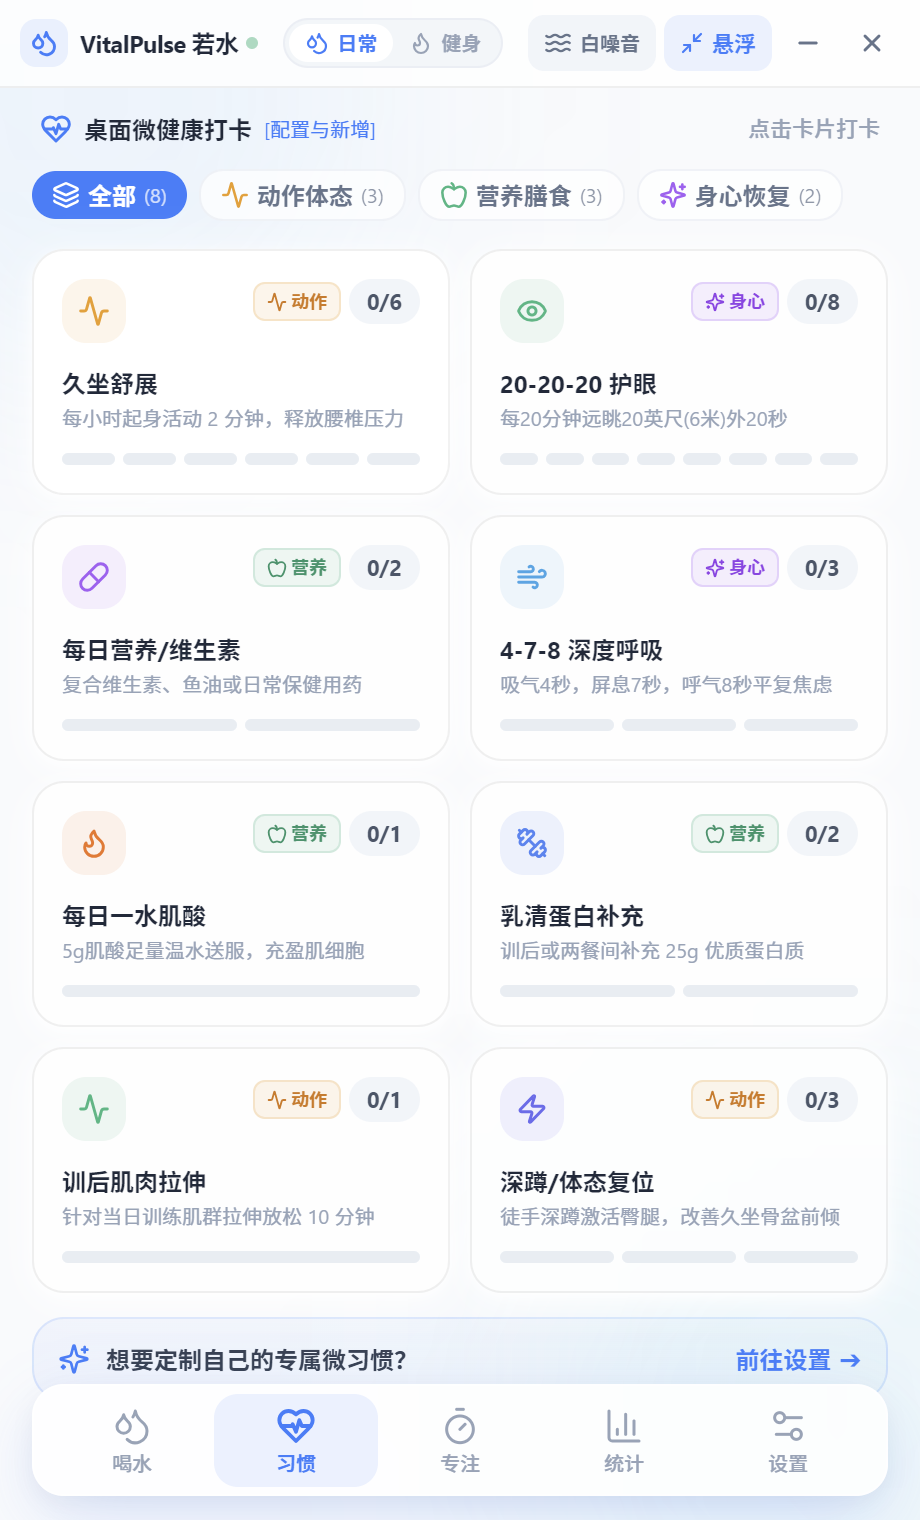
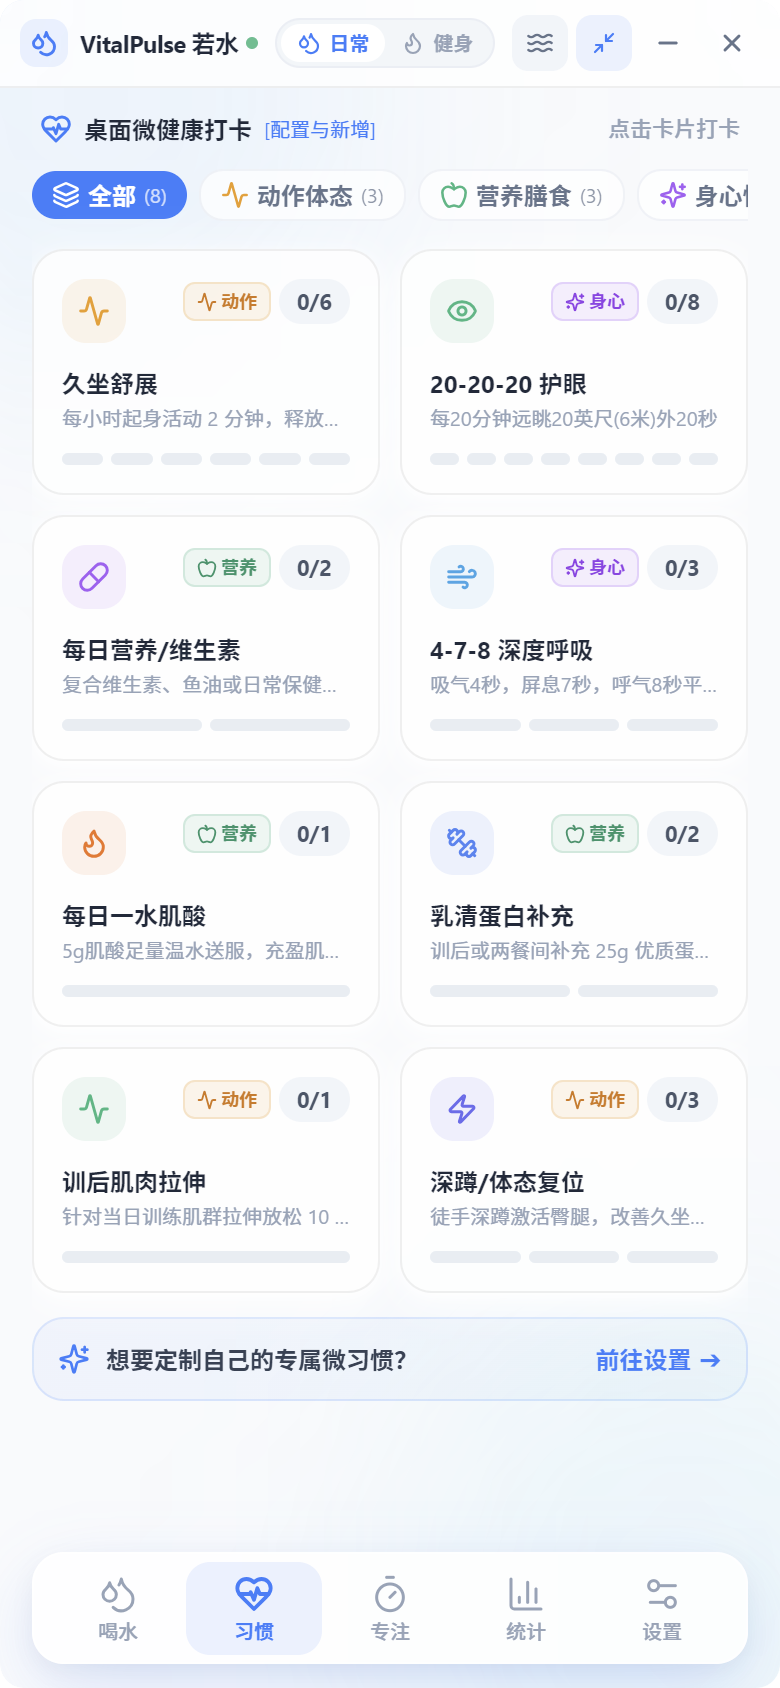
docs: 更新界面截图与首页功能说明
- 重新生成 6 张界面截图（390x844 @2x，含新首页双侧快捷补水与时段条）

- README 补充球体两侧快捷补水、时段条、iOS 规格窗口与圆角说明，并更新组件结构树

- 产品介绍更新喝水主页截图说明

diff --git a/README.md b/README.md
@@ -75,8 +75,13 @@
 ---
 
 ### 3. 🌊 iOS HIG 仿生流体水球与水滴精灵伴侣
-- **60fps 双谐波正弦流体水波**：HTML5 Canvas 2D 高帧率物理渲染，水平面随全天饮水量自适应平滑上涨。
+- **60fps 双谐波正弦流体水波**：HTML5 Canvas 2D 高帧率物理渲染，水平面随全天饮水量自适应平滑上涨；画布按设备像素比与可用空间自适应，窗口缩放不发虚。
 - **iOS 通透玻璃微拟态切面**：毛玻璃背板 (`backdrop-filter: blur`)、柔和环境光晕、高光椭圆光斑。
+- **单屏布局 · 球体两侧快捷补水 (`SphereSideActions.vue`)**：
+  - 左栏 `+150 / +250 / +350 / +500` 单击即打卡，附带「自定义毫升」（滑块 + 补记时间）；
+  - 右栏四个常用饮品一键切换 + 「更多饮品」面板（全量饮品与有效补水率，可直接跳转设置管理）；
+  - 每次打卡弹出 3 秒撤销浮条，误触一键回滚。
+- **科学补水时段条 (`HydrationTimeline.vue`)**：五个黄金时段常显**时间区间**与**建议水量**，点击即时查看该时段的科学补水建议。
 - **水滴精灵「小若水」生活伴侣 (`WaterCompanion.vue`)**：
   - **4 款专属幻化外貌**：
     - **经典若水**：一体生芽·极简清泉造型；
@@ -129,6 +134,7 @@
 ---
 
 ### 7. 🪟 双重桌面形态与绿色便携数据
+- **iOS 规格窗口形态**：默认 `390 × 844`，可在 `375 × 667` ~ `430 × 932` 间缩放（对齐 iPhone 逻辑分辨率）；透明窗口 + 12px 微圆角，模态遮罩一并裁成圆角。
 - **极简边缘悬浮胶囊 (`MiniWidget.vue`)**：一键收缩为屏幕边缘极小微透明水滴小组件（$250 \times 80\text{px}$），专注中实时呈现计时流逝与标签，不遮挡工作主屏。
 - **Windows 系统托盘常驻**：关闭主窗口自动最小化至托盘，后台持续守护定时健康提醒。
 - **绿色本地持久化 (`data/vitalpulse_data.json`)**：
@@ -181,9 +187,10 @@ healthManage/
 ├── src/
 │   ├── components/               # iOS / Tide 风格高颜值组件库
 │   │   ├── AppTitleBar.vue       # 顶栏：模式切换、白噪音管理、窗口控制
-│   │   ├── WaterWave.vue         # Canvas 2D 仿生流体水球
-│   │   ├── BeverageSelector.vue  # 多饮品切换与快速加水打卡
-│   │   ├── WaterCompanion.vue    # 小若水灵动伴侣（4大形态、4大微景观、对话展开）
+│   │   ├── WaterWave.vue         # Canvas 2D 仿生流体水球（按可用空间自适应尺寸）
+│   │   ├── SphereSideActions.vue # 球体两侧快捷补水栏（容量打卡 / 饮品切换 / 自定义 / 更多）
+│   │   ├── HydrationTimeline.vue # 科学补水时段条（时段区间 + 建议水量）
+│   │   ├── WaterCompanion.vue    # 小若水灵动伴侣（4大形态、4大微景观、等级经验胶囊）
 │   │   ├── HabitsCardList.vue    # 微健康习惯矩阵（动作体态/营养/身心）
 │   │   ├── FocusView.vue         # 🌟 心流番茄钟板块（4大预设、声景联动、补水闭环）
 │   │   ├── BreathingModal.vue    # 4-7-8 正念减压呼吸引导光环

diff --git a/产品介绍.md b/产品介绍.md
@@ -19,7 +19,7 @@
 
 <table>
   <tr>
-    <td align="center" width="50%"><img src="docs/screenshots/P1.png" width="300" alt="喝水主页" /><br /><sub><b>喝水主页</b>：微景观生态箱 + 水滴伴侣「小若水」，水球随当日饮水量上涨</sub></td>
+    <td align="center" width="50%"><img src="docs/screenshots/P1.png" width="300" alt="喝水主页" /><br /><sub><b>喝水主页</b>：微景观生态箱 + 水滴伴侣「小若水」，球体两侧一键补水，底部常显时段节律</sub></td>
     <td align="center" width="50%"><img src="docs/screenshots/P2.png" width="300" alt="微习惯矩阵" /><br /><sub><b>微习惯矩阵</b>：动作体态 / 营养膳食 / 身心恢复三类共 8 项打卡，可自由配置</sub></td>
   </tr>
   <tr>
